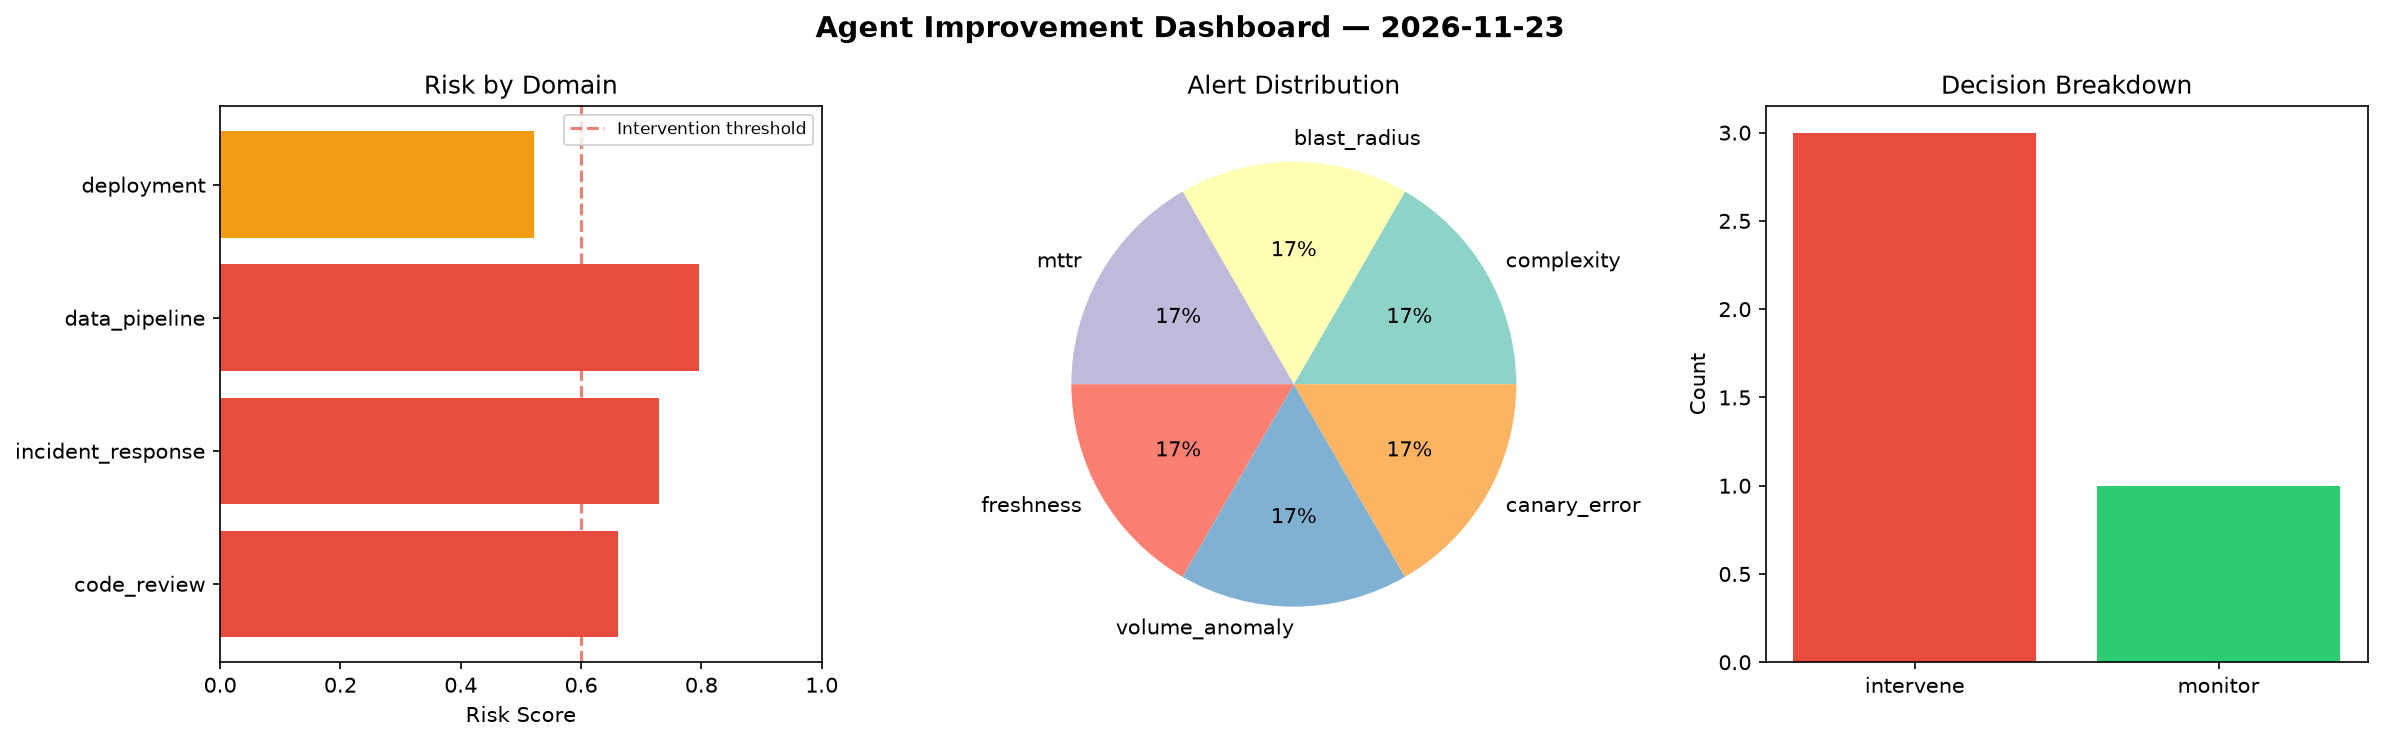
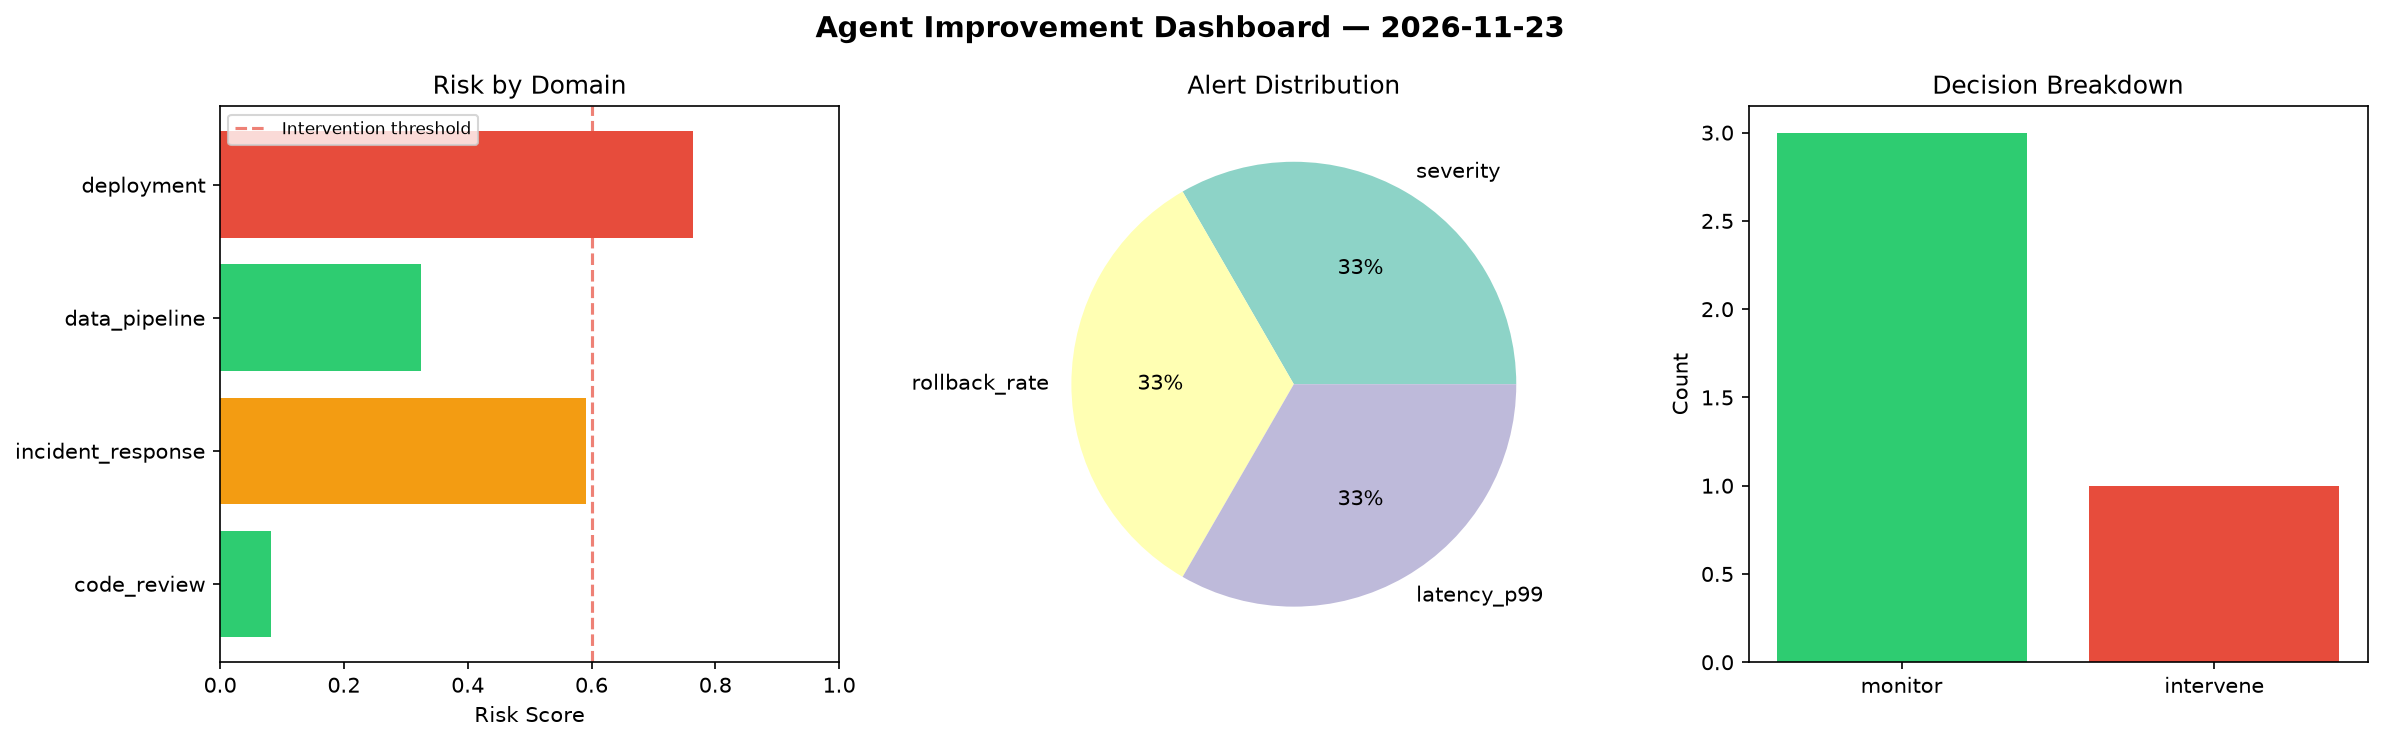
agent-improvement: daily cycle 2026-11-23T10:42

diff --git a/logs/2026-11-23.md b/logs/2026-11-23.md
@@ -1,6 +1,6 @@
 # Agent Improvement Report — 2026-11-23
 
-**Cycle ID:** `92125627` | **Avg Risk:** 0.6767 | **Interventions:** 3/4
+**Cycle ID:** `68590132` | **Avg Risk:** 0.4406 | **Interventions:** 1/4
 
 ![Dashboard](2026-11-23_dashboard.png)
 
@@ -10,18 +10,18 @@
 
 | Domain | Risk Score | Decision | Alerts |
 |--------|-----------|----------|--------|
-| code_review | 0.6608 | intervene | complexity |
-| incident_response | 0.729 | intervene | blast_radius, mttr |
-| data_pipeline | 0.7955 | intervene | freshness, volume_anomaly |
-| deployment | 0.5215 | monitor | canary_error |
+| code_review | 0.0828 | monitor | none |
+| incident_response | 0.5909 | monitor | severity |
+| data_pipeline | 0.325 | monitor | none |
+| deployment | 0.7636 | intervene | rollback_rate, latency_p99 |
 
 ## Delta vs Yesterday
 
 | Domain | Today | Yesterday | Change |
 |--------|-------|-----------|--------|
-| code_review | 0.6608 | 0.471 | 📈 40.3% |
-| incident_response | 0.729 | 0.2265 | 📈 221.9% |
-| data_pipeline | 0.7955 | 0.395 | 📈 101.4% |
-| deployment | 0.5215 | 0.3358 | 📈 55.3% |
+| code_review | 0.0828 | 0.471 | 📉 -82.4% |
+| incident_response | 0.5909 | 0.2265 | 📈 160.9% |
+| data_pipeline | 0.325 | 0.395 | 📉 -17.7% |
+| deployment | 0.7636 | 0.3358 | 📈 127.4% |
 
-**Refinement:** `{'adjustment': 'maintain', 'trend': 'improving', 'window': 4}`
+**Refinement:** `{'adjustment': 'tighten_thresholds', 'trend': 'degrading', 'window': 4}`
